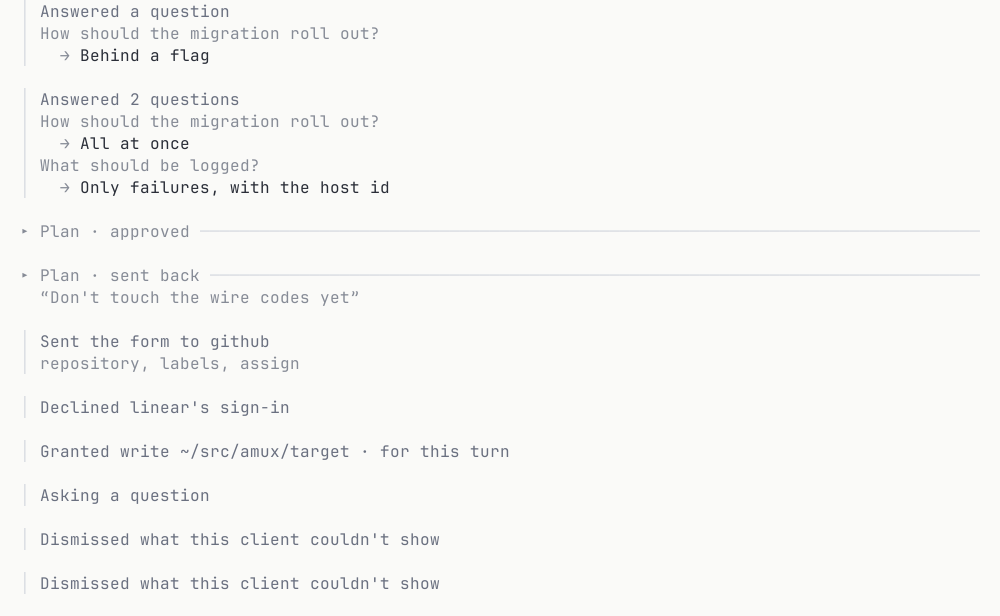
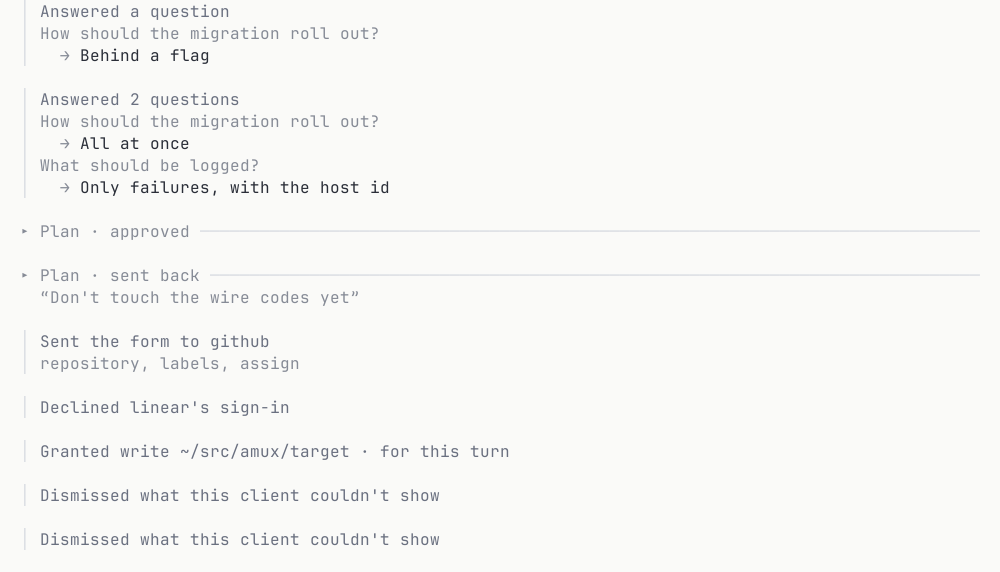
Draw nothing for open questions and keep a question's box one height
With headless Claude streaming, its question tool appears before its
questions do, and the feed's step read "Asking 0 questions"; while the
questions are open the box is the ask, so the feed now draws them only
once answered. A question whose options have previews sizes the preview
to the tallest of them, so the box stops resizing as the person moves
between options.

diff --git a/crates/tui/src/chat/ask.rs b/crates/tui/src/chat/ask.rs
@@ -1750,6 +1750,20 @@ impl AskUi {
         } else {
             "[Show All]"
         };
+        // The preview's room is the tallest of this question's previews, so
+        // moving between options never changes the box's height.
+        let tallest = |width: usize| {
+            question
+                .options
+                .iter()
+                .filter(|option| !option.preview.is_empty())
+                .map(|option| {
+                    let (lines, more) = preview_lines(&option.preview, width, cap, theme);
+                    lines.len() + usize::from(more > 0)
+                })
+                .max()
+                .unwrap_or(0)
+        };
         let base = out.lines.len();
         if side {
             let right_width = width.saturating_sub(left_width + 3).max(1);
@@ -1757,7 +1771,7 @@ impl AskUi {
                 Some(preview) => preview_lines(preview, right_width, cap, theme),
                 None => (Vec::new(), 0),
             };
-            let height = left.lines.len().max(right.len() + usize::from(more > 0));
+            let height = left.lines.len().max(tallest(right_width));
             for i in 0..height {
                 let mut line = left.lines.get(i).cloned().unwrap_or_default();
                 text::pad_to(&mut line, left_width);
@@ -1774,6 +1788,7 @@ impl AskUi {
             }
         } else {
             out.lines.extend(left.lines.iter().cloned());
+            let preview_top = out.lines.len();
             if let Some(preview) = preview {
                 out.lines.push(Line::default());
                 let (lines, more) = preview_lines(preview, width, cap, theme);
@@ -1788,6 +1803,12 @@ impl AskUi {
                         BoxSpot::ShowAll,
                     ));
                     out.lines.push(line);
+                }
+            }
+            if previews {
+                let height = preview_top + 1 + tallest(width);
+                while out.lines.len() < height {
+                    out.lines.push(Line::default());
                 }
             }
         }

diff --git a/crates/tui/src/chat/feed.rs b/crates/tui/src/chat/feed.rs
@@ -788,7 +788,8 @@ fn plan_lines(
 
 /// Questions the agent asked, once the box is done with them: a step that
 /// says what happened ("Answered 2 questions") and a faint line per
-/// question with its answer.
+/// question with its answer. While they are open the box is the ask, and
+/// the feed draws nothing for them.
 fn questions_step(
     drawn: &mut Drawn,
     questions: &[QuestionView],
@@ -797,6 +798,9 @@ fn questions_step(
     width: usize,
     theme: Theme,
 ) {
+    if matches!(resolution, Resolution::Open) {
+        return;
+    }
     let count = if questions.len() == 1 {
         "a question".to_owned()
     } else {
@@ -807,7 +811,7 @@ fn questions_step(
         .filter(|answer| !answer_words(answer).is_empty())
         .count();
     let words = match resolution {
-        Resolution::Open => format!("Asking {count}"),
+        Resolution::Open => return,
         Resolution::Answered if answered == 0 => format!("Skipped {count}"),
         Resolution::Answered if answered < questions.len() => {
             format!("Answered {answered} of {} questions", questions.len())

diff --git a/docs/CHAT_VOCABULARY.md b/docs/CHAT_VOCABULARY.md
@@ -202,7 +202,7 @@ Once settled, an ask leaves one of two things behind, because rows are one per i
 The attention ink is reserved for what needs you and for failures: `Row.attention` is set when an open ask points at the
 row or the row failed.
 
-![Asks that became rows: a question answered, two questions answered, a plan approved and one sent back with its note, three fields sent to a tool server, a link declined, write access granted for the turn, a question still open, and a dialog this build could not read, dismissed twice.](figures/vocabulary/row_ask.light.png)
+![Asks that became rows: a question answered, two questions answered, a plan approved and one sent back with its note, three fields sent to a tool server, a link declined, write access granted for the turn, and a dialog this build could not read, dismissed twice.](figures/vocabulary/row_ask.light.png)
 
 ## The session strip
 

diff --git a/DEVLOG.md b/DEVLOG.md
@@ -1,3 +1,9 @@
+2026-10-03 — **Questions: no empty step, a steady box.** While questions
+are open the feed draws no step for them (the box is the ask); streamed,
+Claude's question tool showed up before its questions and read "Asking 0
+questions". A question with previews keeps its box at the height of its
+tallest preview, so moving between options no longer resizes it.
+
 2026-10-03 — **Headless Claude streams its replies again.** It was started
 without `--include-partial-messages` since the daemon was rebuilt around
 agent processes, so each reply arrived whole; the flag is back. The fake
